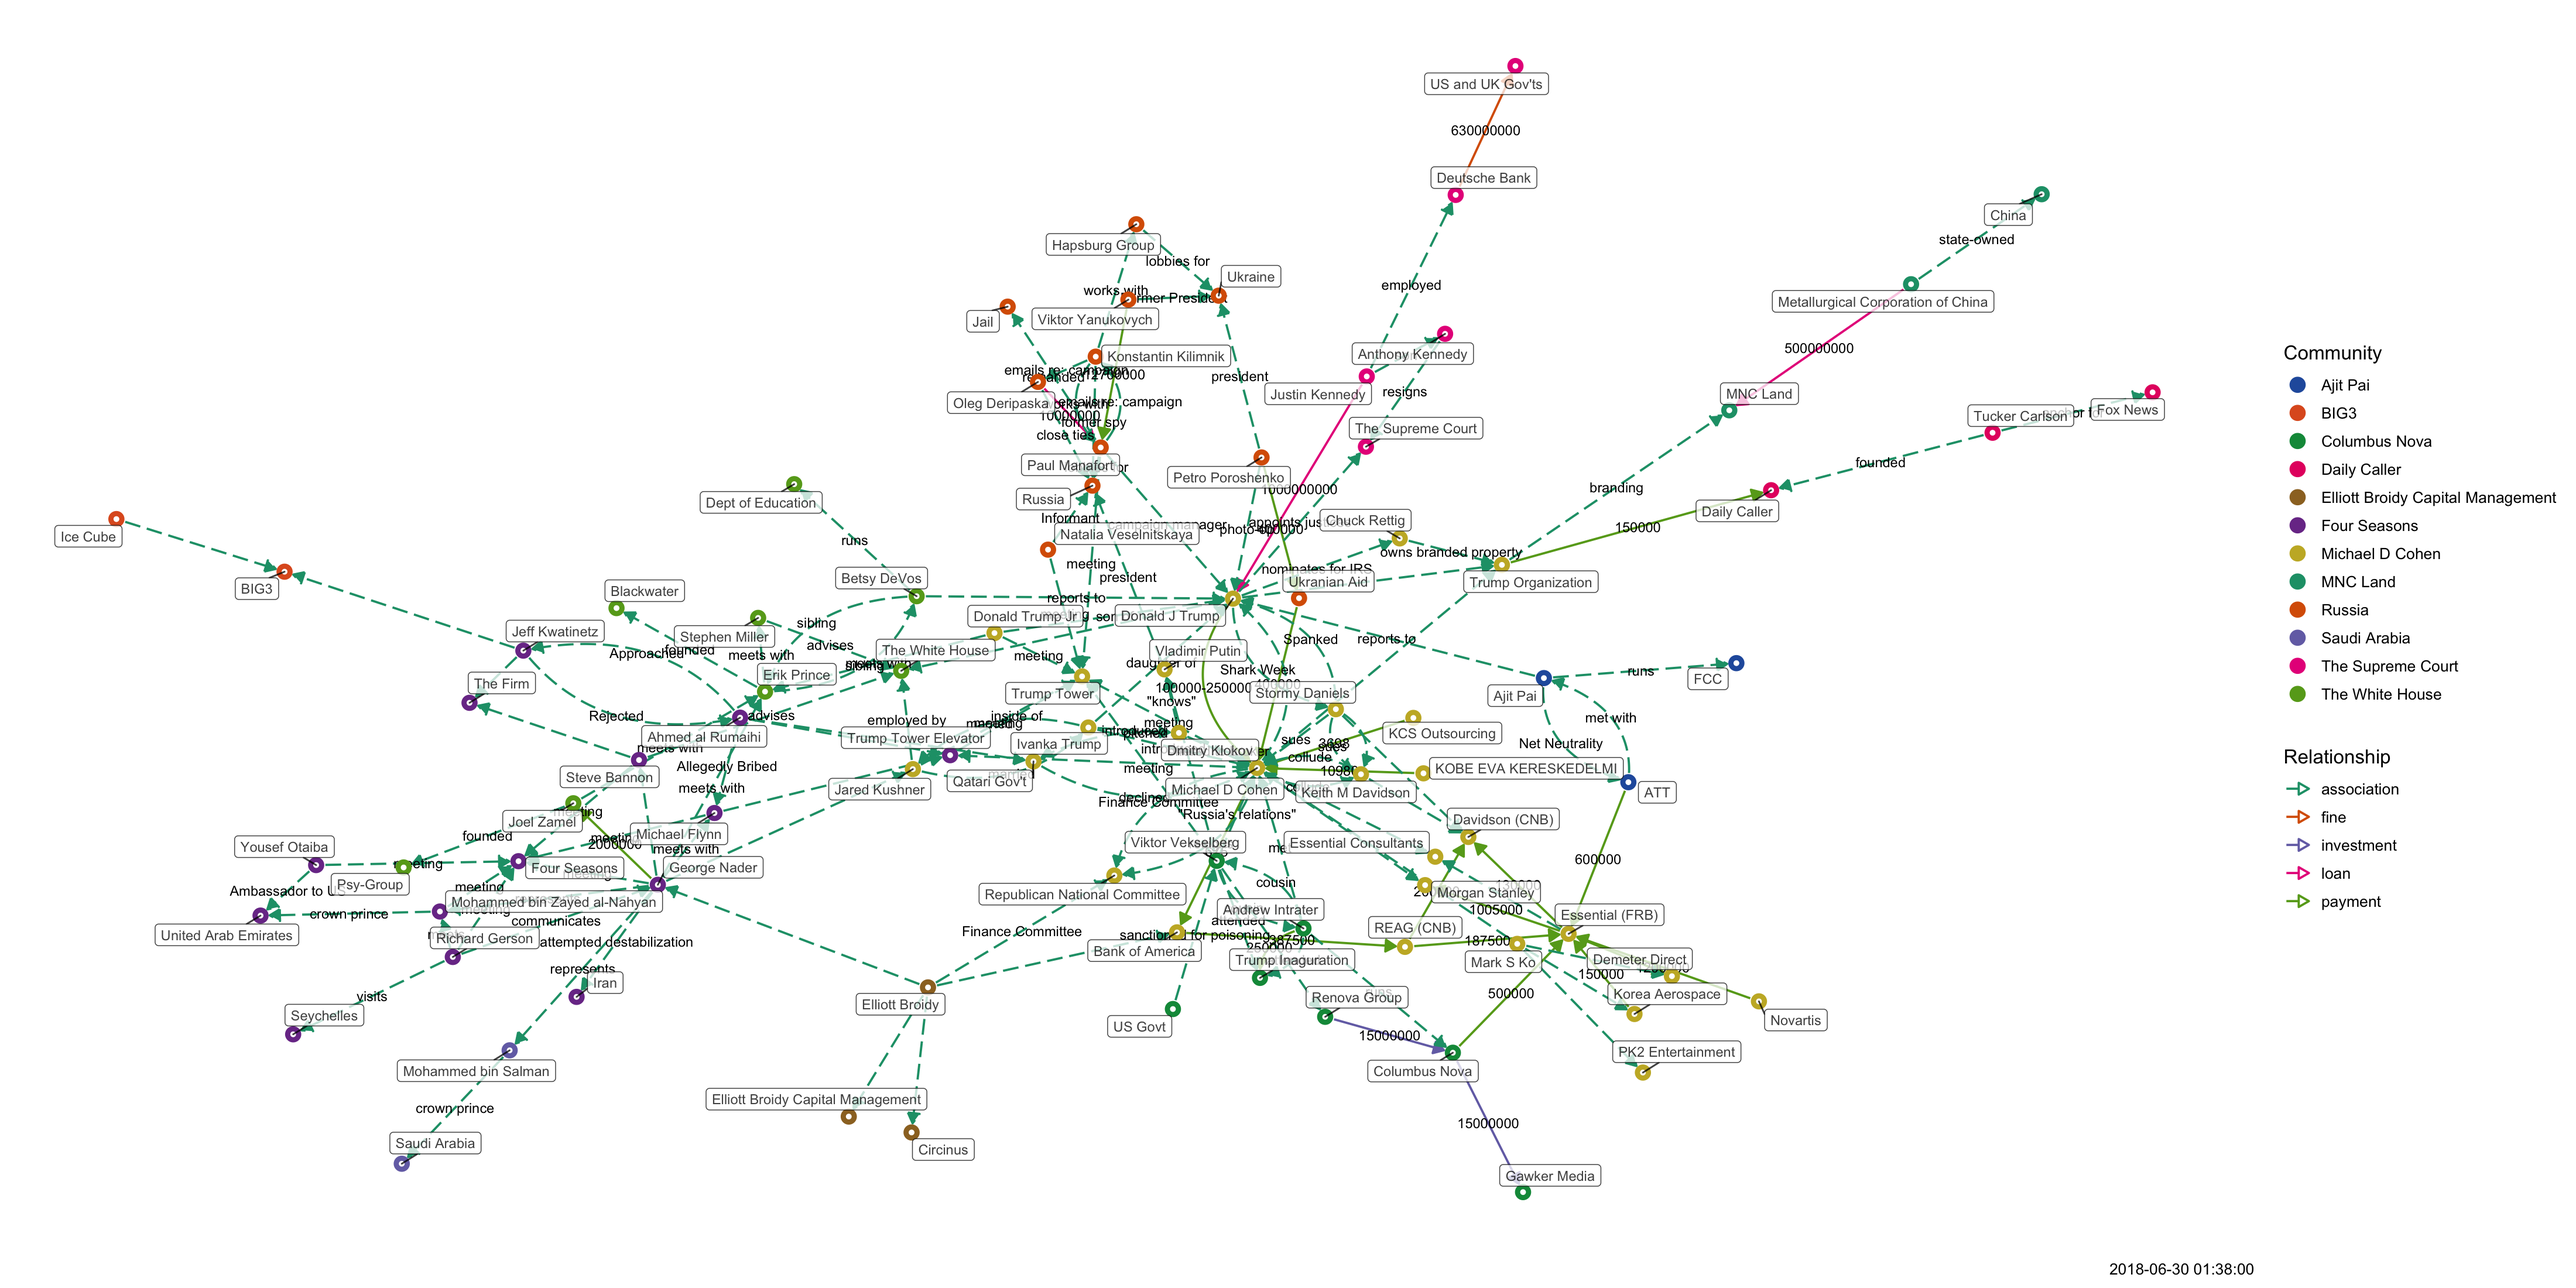
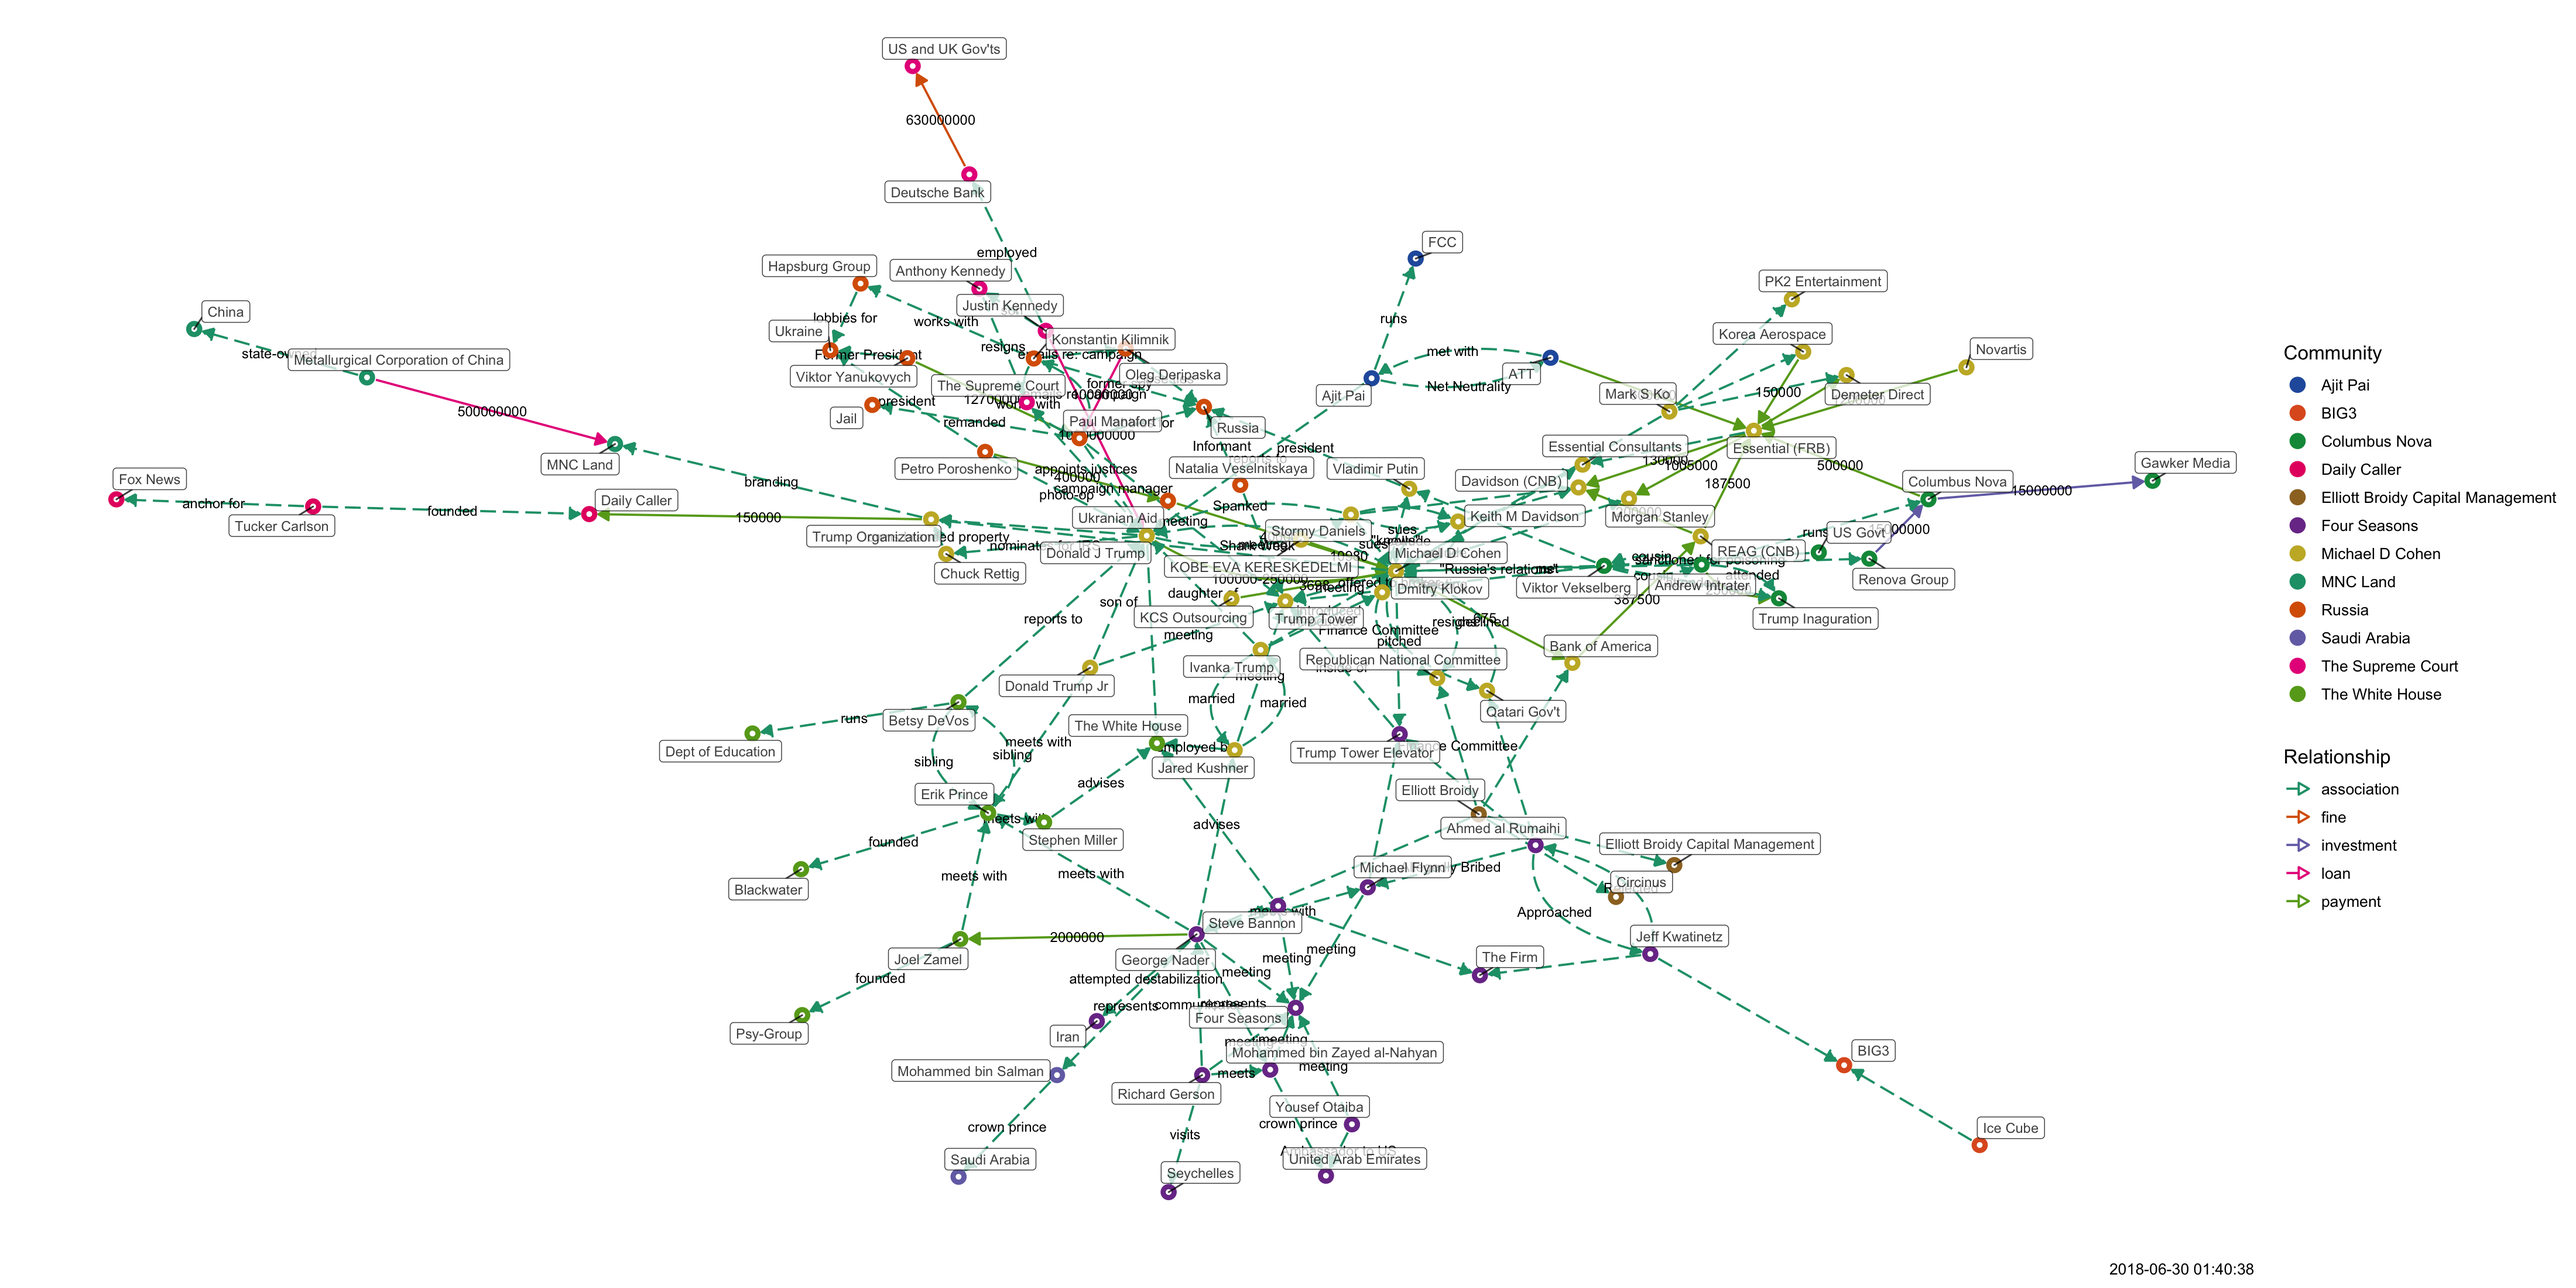
updated

diff --git a/docs/tangled-d3.html b/docs/tangled-d3.html
@@ -1143,11 +1143,11 @@ return function(){for(var n=0,e=0;e<t;++e)n+=Math.random();return n}},um=functio
 </head>
 <body style="background-color: white;">
 <div id="htmlwidget_container">
-<div id="htmlwidget-504e7777106c76ab1046" class="forceNetwork html-widget" style="width:960px;height:500px;">
+<div id="htmlwidget-72baf14cdada58c1a0a4" class="forceNetwork html-widget" style="width:960px;height:500px;">
 
 </div>
 </div>
-<script type="application/json" data-for="htmlwidget-504e7777106c76ab1046">{"x":{"links":{"source":[0,1,2,3,3,4,5,5,5,6,7,8,9,10,11,12,13,14,15,15,16,17,18,19,5,11,0,0,20,0,20,20,0,21,11,22,23,23,20,24,24,24,24,11,4,4,23,11,11,25,25,25,25,4,11,26,27,27,28,29,28,28,30,27,27,31,31,31,1,30,24,6,6,32,32,33,33,11,34,35,35,6,36,37,38,6,6,39,40,38,41,37,6,6,36,38,42,42,42,17,10,14,14,11,20,20,43,44,44,44,44,6,40,26,30,45,45,33,33,46,46,23,23,11,22,47,48,47,49,50,49,47,49,49,36,32,51,51,19,13,49,47,4,52,11],"target":[53,5,15,5,54,11,55,56,57,37,11,11,5,58,2,5,49,18,55,5,3,59,11,49,60,60,3,11,16,20,0,53,53,20,4,55,55,22,50,61,62,63,2,57,64,23,4,17,61,56,65,11,9,17,43,43,43,28,27,66,67,66,67,34,26,1,4,68,31,64,6,30,32,64,33,32,4,34,11,59,69,38,38,38,70,40,39,71,72,41,64,73,26,74,4,42,38,75,4,58,76,4,77,78,78,11,78,79,40,6,80,80,80,80,80,80,72,11,46,11,50,22,11,22,11,48,77,49,81,81,4,81,82,78,78,78,78,81,77,81,47,13,52,17,61],"colour":["red","red","red","red","blue","red","red","red","red","red","red","red","red","blue","red","red","blue","red","red","red","blue","red","red","red","blue","blue","blue","blue","blue","blue","blue","blue","blue","blue","blue","blue","blue","blue","blue","blue","blue","blue","blue","blue","blue","blue","blue","blue","blue","blue","blue","blue","blue","blue","blue","blue","blue","blue","blue","blue","blue","blue","blue","blue","blue","blue","blue","blue","blue","blue","blue","blue","blue","blue","blue","blue","blue","blue","blue","blue","blue","blue","blue","blue","blue","blue","blue","blue","blue","blue","blue","blue","blue","blue","blue","blue","blue","blue","blue","blue","blue","blue","blue","blue","blue","blue","blue","blue","blue","blue","blue","blue","blue","blue","blue","blue","blue","blue","blue","blue","blue","blue","blue","blue","blue","blue","blue","blue","blue","blue","blue","blue","blue","blue","blue","blue","blue","blue","blue","blue","blue","blue","blue","blue","blue"]},"nodes":{"name":["Andrew Intrater","ATT","Bank of America","Columbus Nova","Donald J Trump","Essential (FRB)","George Nader","KCS Outsourcing","KOBE EVA KERESKEDELMI","Korea Aerospace","Metallurgical Corporation of China","Michael D Cohen","Novartis","Oleg Deripaska","Petro Poroshenko","REAG (CNB)","Renova Group","Trump Organization","Ukranian Aid","Viktor Yanukovych","Viktor Vekselberg","US Govt","Keith M Davidson","Stormy Daniels","Elliott Broidy","Mark S Ko","Michael Flynn","Ahmed al Rumaihi","Jeff Kwatinetz","Ice Cube","Steve Bannon","Ajit Pai","Jared Kushner","Ivanka Trump","Qatari Gov't","Tucker Carlson","Donald Trump Jr","Joel Zamel","Erik Prince","Mohammed bin Salman","Mohammed bin Zayed al-Nahyan","Stephen Miller","Betsy DeVos","Trump Tower Elevator","Richard Gerson","Yousef Otaiba","Dmitry Klokov","Konstantin Kilimnik","Hapsburg Group","Paul Manafort","Vladimir Putin","Natalia Veselnitskaya","Chuck Rettig","Trump Inaguration","Gawker Media","Davidson (CNB)","Demeter Direct","Morgan Stanley","MNC Land","Daily Caller","Essential Consultants","Republican National Committee","Elliott Broidy Capital Management","Circinus","The White House","PK2 Entertainment","BIG3","The Firm","FCC","Fox News","Blackwater","Saudi Arabia","United Arab Emirates","Psy-Group","Iran","Dept of Education","China","Ukraine","Trump Tower","Seychelles","Four Seasons","Russia","Jail"],"group":["5","9","1","5","1","1","2","1","1","6","8","1","1","3","3","1","5","1","3","3","5","5","1","1","10","6","2","2","2","12","2","9","1","1","1","7","1","4","4","11","2","4","4","2","2","2","1","3","3","3","1","3","1","5","5","1","6","1","8","7","1","1","10","10","4","6","12","2","9","7","4","11","2","4","2","4","8","3","1","2","2","3","3"]},"options":{"NodeID":"name","Group":"group","colourScale":"d3.scaleOrdinal(d3.schemeCategory20);","fontSize":20,"fontFamily":"serif","clickTextSize":50,"linkDistance":50,"linkWidth":"function(d) { return Math.sqrt(d.value); }","charge":-100,"opacity":1,"zoom":true,"legend":false,"arrows":false,"nodesize":false,"radiusCalculation":" Math.sqrt(d.nodesize)+6","bounded":false,"opacityNoHover":1,"clickAction":null}},"evals":[],"jsHooks":[]}</script>
-<script type="application/htmlwidget-sizing" data-for="htmlwidget-504e7777106c76ab1046">{"viewer":{"width":450,"height":350,"padding":10,"fill":true},"browser":{"width":960,"height":500,"padding":10,"fill":true}}</script>
+<script type="application/json" data-for="htmlwidget-72baf14cdada58c1a0a4">{"x":{"links":{"source":[0,1,2,3,3,4,5,6,6,6,7,8,9,10,11,12,13,14,15,16,17,17,18,19,20,21,6,13,0,0,22,0,22,22,0,23,13,24,25,25,22,26,26,26,26,13,5,5,25,13,13,27,27,27,27,5,13,28,29,29,30,31,30,30,32,29,29,33,33,33,1,32,26,7,7,34,34,35,35,13,36,37,37,7,38,39,40,7,7,41,42,40,43,39,7,7,38,40,44,44,44,19,12,16,16,13,22,22,45,46,46,46,46,7,42,28,32,47,47,35,35,48,48,25,25,13,24,49,50,49,51,52,51,49,51,51,38,34,53,53,21,15,51,49,5,54,13,55,8,8,5],"target":[56,6,17,6,57,58,13,59,60,61,39,5,13,13,6,62,2,6,51,20,59,6,3,63,13,51,64,64,3,13,18,22,0,56,56,22,5,59,59,24,52,65,66,67,2,61,68,25,5,19,65,60,69,13,11,19,45,45,45,30,29,70,71,70,71,36,28,1,5,72,33,68,7,32,34,68,35,34,5,36,13,63,73,40,40,40,74,42,41,75,76,43,68,77,28,78,5,44,40,79,5,62,80,5,81,82,82,13,82,83,42,7,84,84,84,84,84,84,76,13,48,13,52,24,13,24,13,50,81,51,85,85,5,85,86,82,82,82,82,85,81,85,49,15,54,19,65,87,55,4,87],"colour":["red","red","red","red","blue","blue","red","red","red","red","red","blue","red","red","red","blue","red","red","blue","red","red","red","blue","red","red","red","blue","blue","blue","blue","blue","blue","blue","blue","blue","blue","blue","blue","blue","blue","blue","blue","blue","blue","blue","blue","blue","blue","blue","blue","blue","blue","blue","blue","blue","blue","blue","blue","blue","blue","blue","blue","blue","blue","blue","blue","blue","blue","blue","blue","blue","blue","blue","blue","blue","blue","blue","blue","blue","blue","blue","blue","blue","blue","blue","blue","blue","blue","blue","blue","blue","blue","blue","blue","blue","blue","blue","blue","blue","blue","blue","blue","blue","blue","blue","blue","blue","blue","blue","blue","blue","blue","blue","blue","blue","blue","blue","blue","blue","blue","blue","blue","blue","blue","blue","blue","blue","blue","blue","blue","blue","blue","blue","blue","blue","blue","blue","blue","blue","blue","blue","blue","blue","blue","blue","blue","blue","blue","blue","blue","blue"]},"nodes":{"name":["Andrew Intrater","ATT","Bank of America","Columbus Nova","Deutsche Bank","Donald J Trump","Essential (FRB)","George Nader","Justin Kennedy","KCS Outsourcing","KOBE EVA KERESKEDELMI","Korea Aerospace","Metallurgical Corporation of China","Michael D Cohen","Novartis","Oleg Deripaska","Petro Poroshenko","REAG (CNB)","Renova Group","Trump Organization","Ukranian Aid","Viktor Yanukovych","Viktor Vekselberg","US Govt","Keith M Davidson","Stormy Daniels","Elliott Broidy","Mark S Ko","Michael Flynn","Ahmed al Rumaihi","Jeff Kwatinetz","Ice Cube","Steve Bannon","Ajit Pai","Jared Kushner","Ivanka Trump","Qatari Gov't","Tucker Carlson","Donald Trump Jr","Joel Zamel","Erik Prince","Mohammed bin Salman","Mohammed bin Zayed al-Nahyan","Stephen Miller","Betsy DeVos","Trump Tower Elevator","Richard Gerson","Yousef Otaiba","Dmitry Klokov","Konstantin Kilimnik","Hapsburg Group","Paul Manafort","Vladimir Putin","Natalia Veselnitskaya","Chuck Rettig","Anthony Kennedy","Trump Inaguration","Gawker Media","US and UK Gov'ts","Davidson (CNB)","Demeter Direct","Morgan Stanley","MNC Land","Daily Caller","Essential Consultants","Republican National Committee","Elliott Broidy Capital Management","Circinus","The White House","PK2 Entertainment","BIG3","The Firm","FCC","Fox News","Blackwater","Saudi Arabia","United Arab Emirates","Psy-Group","Iran","Dept of Education","China","Ukraine","Trump Tower","Seychelles","Four Seasons","Russia","Jail","The Supreme Court"],"group":["5","9","1","5","6","1","1","2","6","1","1","1","7","1","1","3","3","1","5","1","3","3","5","5","1","1","10","1","2","2","2","12","2","9","1","1","1","8","1","4","4","11","2","4","4","2","2","2","1","3","3","3","1","3","1","6","5","5","6","1","1","1","7","8","1","1","10","10","4","1","12","2","9","8","4","11","2","4","2","4","7","3","1","2","2","3","3","6"]},"options":{"NodeID":"name","Group":"group","colourScale":"d3.scaleOrdinal(d3.schemeCategory20);","fontSize":20,"fontFamily":"serif","clickTextSize":50,"linkDistance":50,"linkWidth":"function(d) { return Math.sqrt(d.value); }","charge":-100,"opacity":1,"zoom":true,"legend":false,"arrows":false,"nodesize":false,"radiusCalculation":" Math.sqrt(d.nodesize)+6","bounded":false,"opacityNoHover":1,"clickAction":null}},"evals":[],"jsHooks":[]}</script>
+<script type="application/htmlwidget-sizing" data-for="htmlwidget-72baf14cdada58c1a0a4">{"viewer":{"width":450,"height":350,"padding":10,"fill":true},"browser":{"width":960,"height":500,"padding":10,"fill":true}}</script>
 </body>
 </html>
